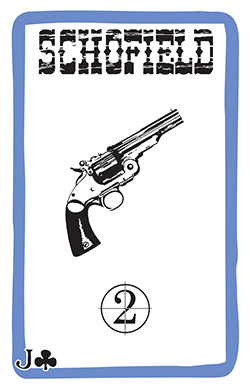
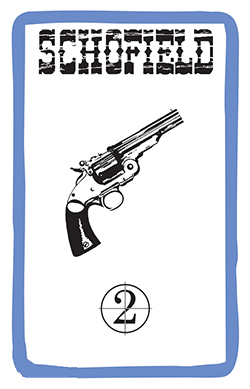
feat: no sign cards

Changed region(s): [[0.028, 0.8946, 0.308, 0.9871]]

diff --git a/web/src/components/Field.vue b/web/src/components/Field.vue
@@ -35,7 +35,7 @@ function select_card(x: number) {
                 />
             </ListTransition>
         </div>
-        <Role class="w-1/5 p-1" :type="props.self ? props.player.role : 0"></Role>
+        <Role class="w-1/5 p-1" :type="props.player.role"></Role>
         <Character class="w-1/5 p-1" :type="props.player.character"></Character>
     </div>
 </template>
